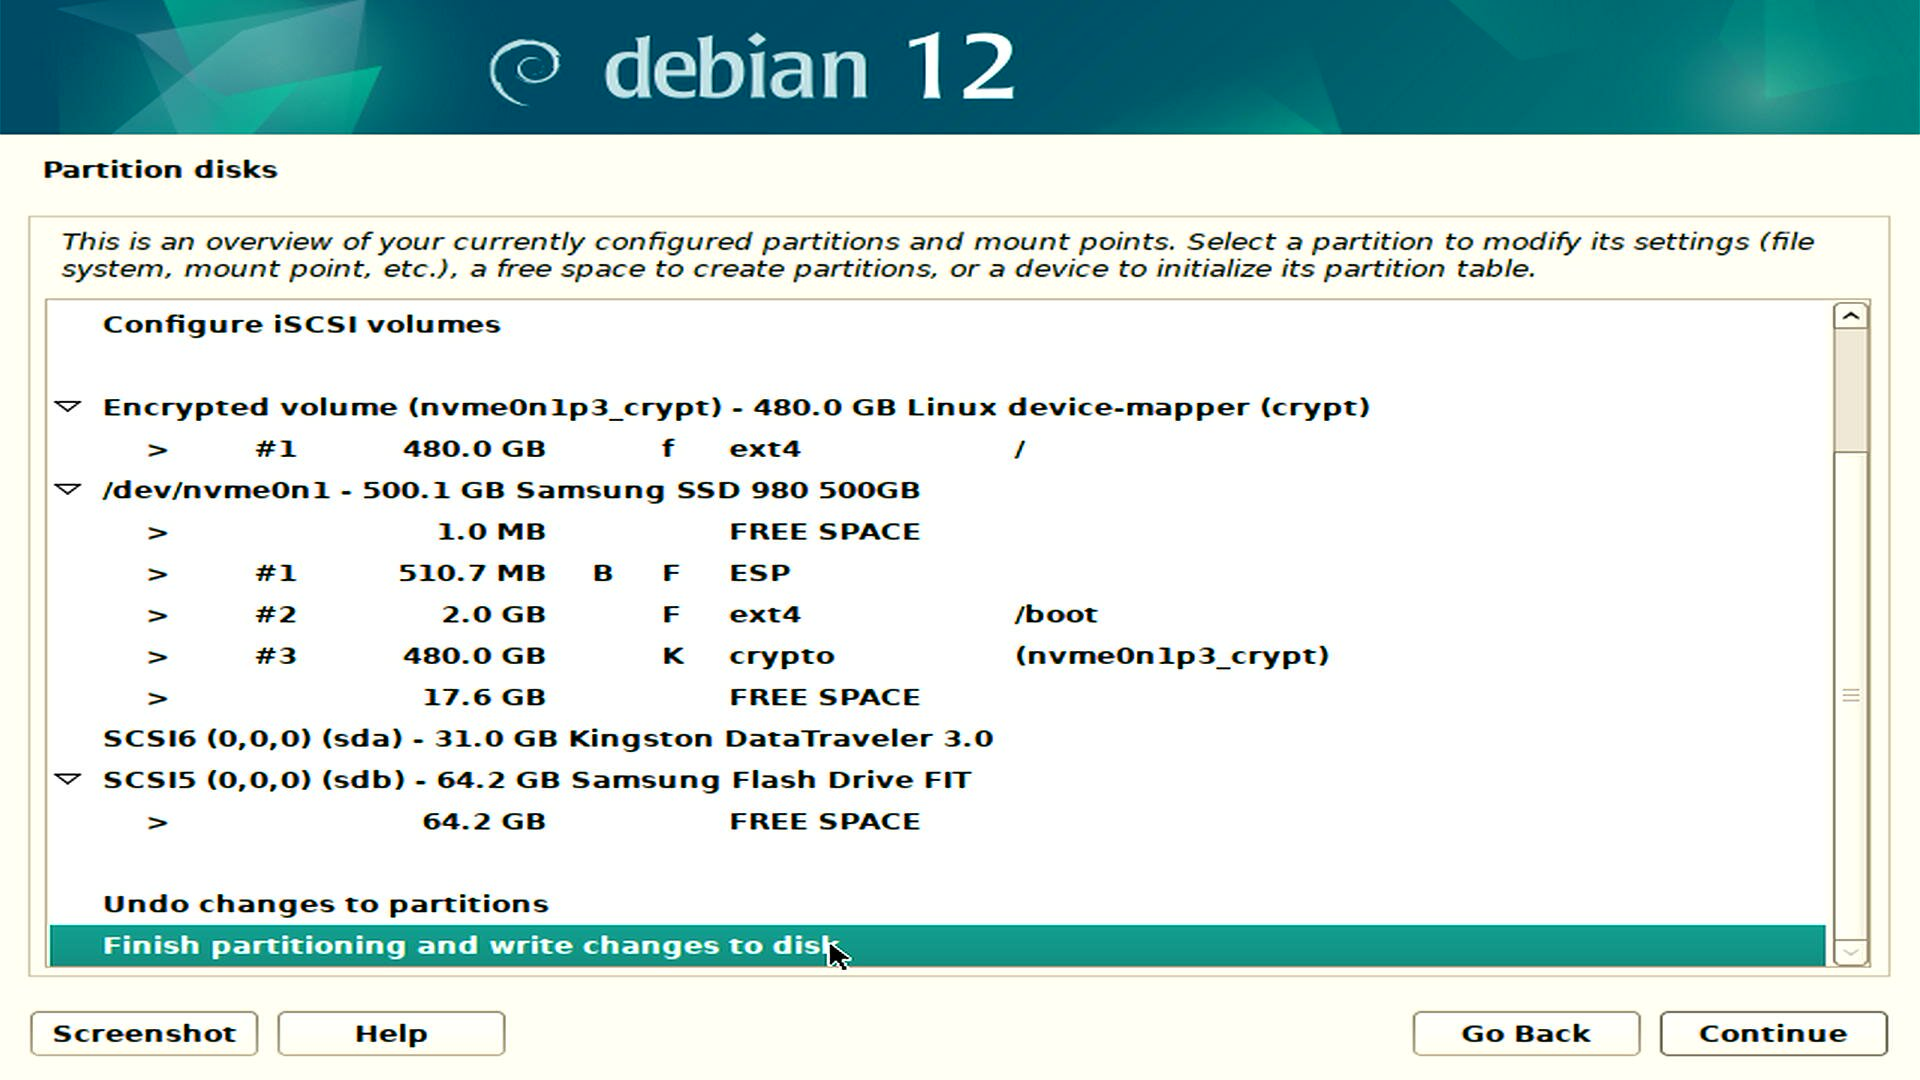
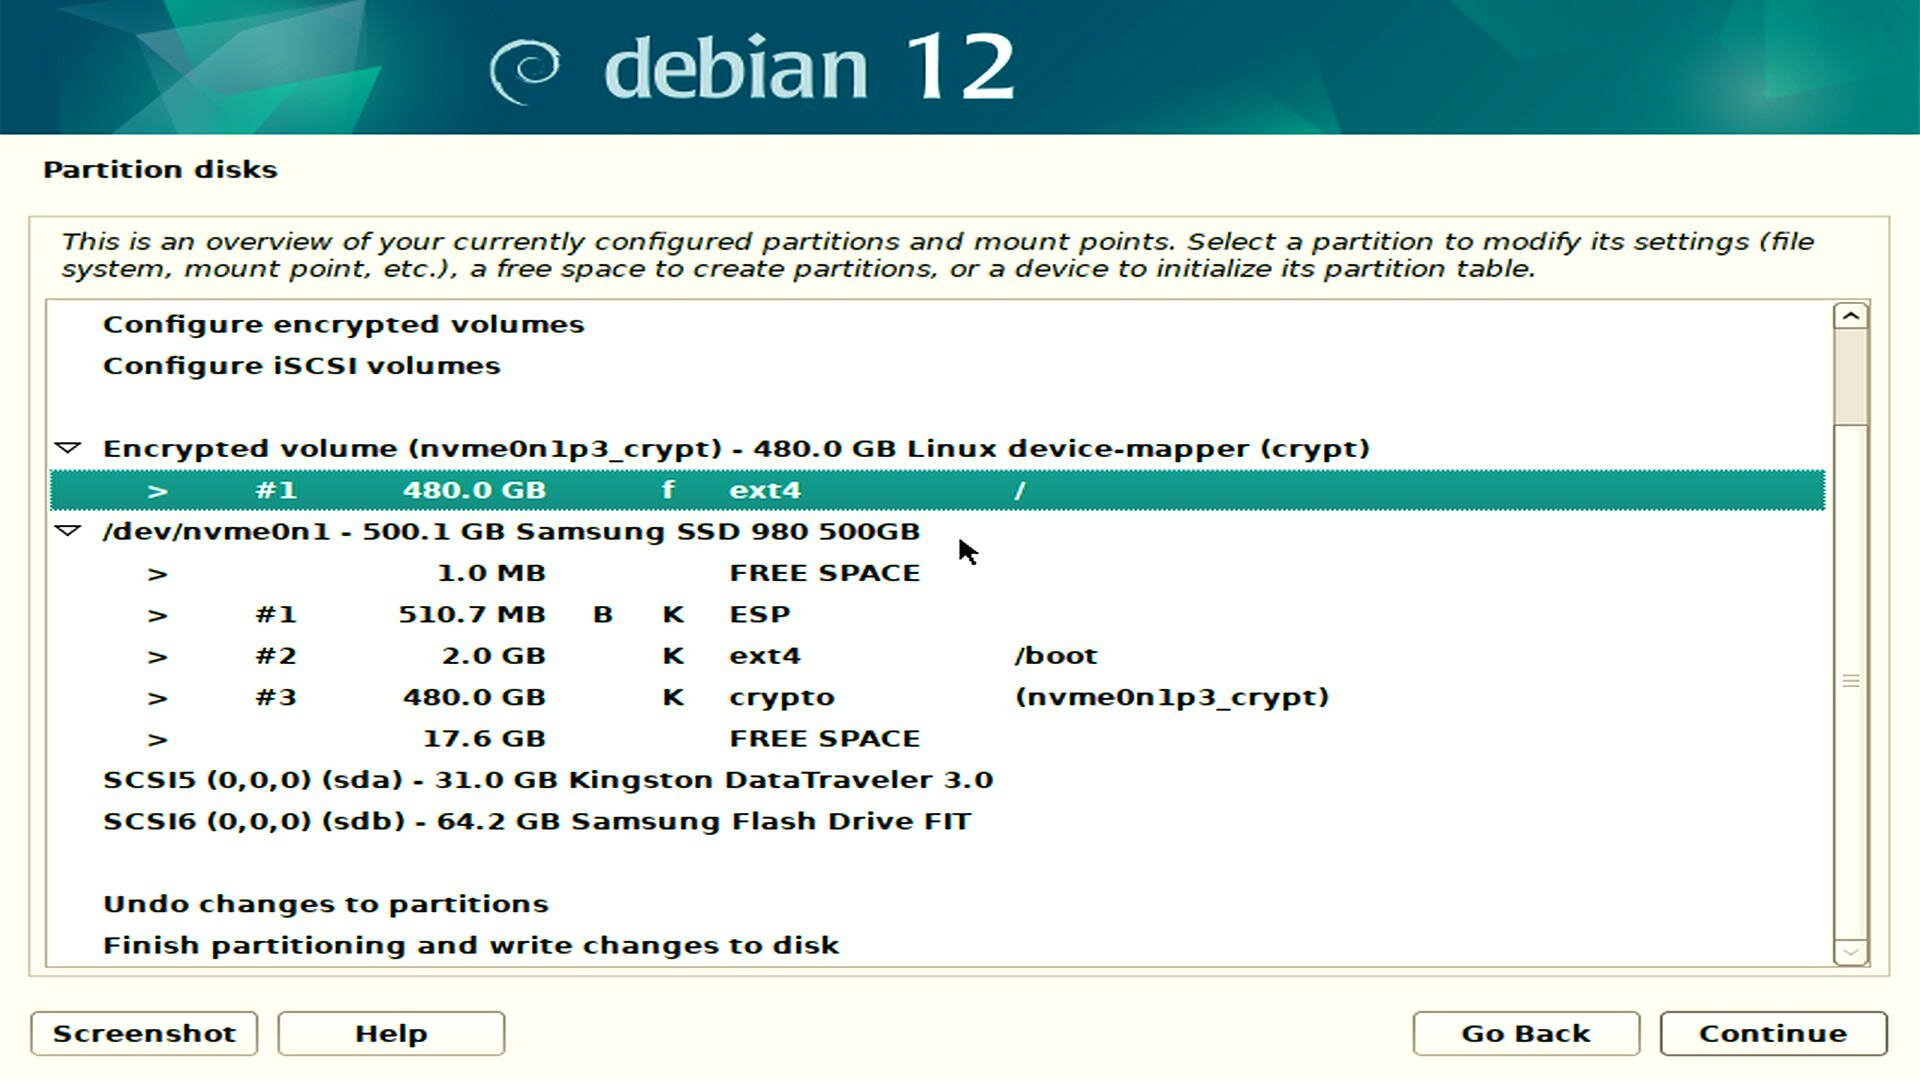
Update article: Proxmox Part 1 - Encrypted Installation
- The whole article was reviewed and mostly rewritten.
- Verified to work with latest Debian 12.11 and Proxmox 8.4.1

Changed region(s): [[0.0, 0.275, 0.9688, 0.7944], [0.0, 0.8556, 0.9688, 0.9167], [0.5312, 0.55, 0.6875, 0.6722]]

diff --git a/_posts/nas/2024-08-24-proxmox-part-1-encrypted-installation.md b/_posts/nas/2024-08-24-proxmox-part-1-encrypted-installation.md
@@ -10,14 +10,20 @@ tags: [NAS,Terramaster,F4-424 Pro, Proxmox, SSH, LUKS]
 image: /assets/img/posts/pve-part1-installation/pve-part1-installation-post.jpg
 ---
 
+> This post has been rewritten in Jun 2025
+{: .prompt-info }
+
 ## Motivation
-This article will closely follow the official Proxmox [tutorial](https://pve.proxmox.com/wiki/Install_Proxmox_VE_on_Debian_12_Bookworm) on installing Proxmox on a fresh Debian 12 installation.
+
+If not already familiar with the goals, get familiar with the article Proxmox Part 0 - Secure Architecture
+
+This article will mostly follow the official Proxmox [tutorial](https://pve.proxmox.com/wiki/Install_Proxmox_VE_on_Debian_12_Bookworm) on installing Proxmox on a fresh Debian 12.11 installation. Main difference being Debian configured with encryption.
 
 ## Installing Debian
 ![Debian Install](/assets/img/posts/pve-part1-installation/pve-part1-installation01.jpg){: width="1920" height="1080" .center}
-1. Download the Debian installer ISO image and flash it onto a USB thumb drive.
+1. [Download](https://www.debian.org/distrib/netinst) the Debian amd64 small installation image and flash it onto a USB thumb drive.
 2. Boot your system from the USB drive and begin the installation process.
-3. When the "Installation Menu" appears, interrupt the process.
+3. When the "Installation Menu" appears, **interrupt the process!**
 
 
 ![Debian installer](/assets/img/posts/pve-part1-installation/pve-part1-installation02.jpg){: width="1920" height="1080" .center}
@@ -38,11 +44,23 @@ Proceed with the installation until you reach the **Partition Disks** section. S
 
 Delete all existing partitions on the disk intended for Proxmox installation. If you encounter errors related to existing LVM configurations, navigate to **Configure the Logical Volume Manager** and delete the volumes and groups.
 
+The boot partition will not be encrypted, otherwise UEFI would not be able to execute the boot process. This is okay since we are not going to store any sensitive data on the partition.
+
 Create the following partitions:
 
-- EFI Partition: 512 MB, **Use as:** EFI System Partition.
-- Boot Partition: 2 GB, **Use as:** ext4, **Mount point:** `/boot` and **Mount options:** `noatime`
-- Encrypted Volume: 480 GB, **Use as:** physical volume for encryption, **Erase data:** no (this disk has never had anything sensitive on it)
+- EFI Partition: 512 MB
+    - **Use as:** EFI System Partition.
+- Boot Partition: 2 GB
+    - **Use as:** ext4
+    - **Format the partition:** yes,format it
+    - **Mount point:** `/boot`
+    - **Mount options:** `noatime`
+- Encrypted Volume: 480 GB
+    - **Use as:** physical volume for encryption
+    - **Erase data:** no (this disk has never had anything sensitive on it)
+
+Use the screenshot above as an example before configuring the encryption
+
 
 ![Debian installer encryption](/assets/img/posts/pve-part1-installation/pve-part1-installation05.jpg){: width="1920" height="1080" .center}
 
@@ -74,14 +92,19 @@ For Software selection choose `SSH server` and `standard system utilities`.
 
 Once installation is complete, reboot the system and remove installation media.
 
+### Getting error "cryptsetup: Waiting for encrypted source device"
+![cryptsetup: Waiting for encrypted source device error](/assets/img/posts/pve-part1-installation/pve-part1-cryptsetup_error.jpg)
+This error appears when reinstalling the system without formatting drives, the bootloader tries to run the configuration from previous installation. As a workaround, either enter to the `Advanced options for Debian GNU/Linux` from GRUB menu and choose other kernel or, alternatively reinstall the system and ensure EFI and boot partitions are formatted during installation.
+
 ## Configuring SSH for first connection
 
 It's more convenient to continue the installation from a remote machine, and SSH is the perfect tool for this. However, SSH employs a [TOFU](https://en.wikipedia.org/wiki/Trust_on_first_use) (Trust on First Use) authentication scheme, requiring us to verify the connection when connecting to an unknown endpoint for the first time. Furthermore, the default OpenSSH server configuration relies on password authentication which is vulnerable to man-in-the-middle attacks.
 
 While it's unlikely my network has any malicious actors waiting to exploit my devices, I try to prioritize security best practices whenever possible.
 
-Log in as root on the Debian machine we just installed:
+Following steps instructs on creating encrypted vault on an USB stick to store SSH-keys.
 
+Log in as root on the Debian machine:
 ```shell
 # Prepare the USB drive: (Skip steps 2 and 3 if you're not using the Debian installer USB)
 # 1. Identify the USB drive with two partitions (/dev/sdb in my case)
@@ -106,14 +129,14 @@ mount /dev/sdb3 /mnt/usb
 # 5. Navigate to the mounted drive
 cd /mnt/usb
 
-# 6. Create an empty file for encrypted container (512 MB)
-dd if=/dev/urandom of=filevault.img bs=1M count=512
+# 6. Create an empty file for encrypted container (50 MB)
+dd if=/dev/urandom of=pvekey.img bs=1M count=50
 
 # 7. Create LUKS volume within the empty file
-cryptsetup --verify-passphrase luksFormat filevault.img
+cryptsetup --verify-passphrase luksFormat pvekey.img
 
 # 8. Open the LUKS volume and confirm it is visible in the system
-cryptsetup open --type luks filevault.img keyvault
+cryptsetup open --type luks pvekey.img keyvault
 ls /dev/mapper
 
 # 9. Create filesystem labeled as keyvault
@@ -128,16 +151,16 @@ cd /media/keyvault
 ssh-keygen -l -f /etc/ssh/ssh_host_ed25519_key >> host_fingerprint.txt
 
 # 12. Generate SSH keys (Use a strong password)
-ssh-keygen -t ed25519 -f vault_key
+ssh-keygen -t ed25519 -f pve_key
 
 # 13. Create the SSH configuration folder for the non-admin user
-mkdir /home/tanezky/.ssh
+mkdir /home/netzky/.ssh
 
-# 14. Copy the public key to the user's authorized_keys file
-cat vault_key.pub >> /home/tanezky/.ssh/authorized_keys
+# 14. Add the public key to the user's authorized_keys file
+cat pve_key.pub >> /home/netzky/.ssh/authorized_keys
 
 # 15. Give the user permissions to .ssh folder and files
-chown -R tanezky:tanezky /home/tanezky/.ssh/
+chown -R netzky:netzky /home/netzky/.ssh/
 
 # 16. Finally, exit the folder and unmount drive.
 cd /
@@ -147,9 +170,9 @@ umount /mnt/usb
 ```
 
 ### First SSH Connection
-![First SSH Connection](/assets/img/posts/pve-part1-installation/pve-part1-installation08.jpg){: width="1920" height="1080" .center}
+![First SSH Connection](/assets/img/posts/pve-part1-installation/pve-part1-installation08.jpg){: width="821" height="582" .center}
 
-Connect the USB drive to your PC and move `filevault.img` on your hard drive.
+Connect the USB drive to your PC and move `pvekey.img` on your hard drive.
 
 On my Gnome Desktop I can mount the filevault via double clicking the file.
 After entering the password it is mounted.
@@ -158,7 +181,7 @@ How-to in shell:
 
 ```shell
 # 1. Open the LUKS container
-sudo cryptsetup open --type luks filevault.img keyvault
+sudo cryptsetup open --type luks pvekey.img keyvault
 
 # 2. If not existing, create location for the mount point
 sudo mkdir -p /media/keyvault
@@ -173,30 +196,30 @@ Finally, connect to the device with SSH
 # 1. Navigate to the mounted location or open a new terminal in that folder
 cd /media/keyvault
 
-# 2. List files, there should be vault_key and vault-fingerprint.txt
+# 2. List files, there should be pve_key and vault-fingerprint.txt
 ls
-lost+found  vault-fingerprint.txt  vault_key  vault_key.pub
+lost+found  vault-fingerprint.txt  pve_key  pve_key.pub
 
 
 # 3. Print contents of vault-fingerprint.txt
 cat vault-fingerprint.txt
-256 SHA256:h+YtATVdtGddY5c3hCM9Negu+rS/pKrpliXI/Lg7s2U root@aurum-vault (ED25519)
+256 SHA256:wXkuNcQt/8W7N2ivAwJctaYq5mVncEmIrj574mfyYto root@pve-vault (ED25519)
 
-# 4. Create SSH connection using vault_key
-ssh -i vault_key tanezky@10.42.42.150
+# 4. Create SSH connection using pve_key
+ssh -i pve_key netzky@10.42.42.150
 The authenticity of host '10.42.42.150 (10.42.42.150)' can't be established.'
-ED25519 key fingerprint is SHA256:h+YtATVdtGddY5c3hCM9Negu+rS/pKrpliXI/Lg7s2U.
+ED25519 key fingerprint is SHA256:wXkuNcQt/8W7N2ivAwJctaYq5mVncEmIrj574mfyYto.
 This key is not known by any other names.
 
 # 5. Copy paste the SHA256 fingerprint from step 3
-Are you sure you want to continue connecting (yes/no/[fingerprint])? SHA256:h+YtATVdtGddY5c3hCM9Negu+rS/pKrpliXI/Lg7s2U
+Are you sure you want to continue connecting (yes/no/[fingerprint])? SHA256:wXkuNcQt/8W7N2ivAwJctaYq5mVncEmIrj574mfyYto
 Warning: Permanently added '10.42.42.150' (ED25519) to the list of known hosts.
 
-# 6. Enter password for the vault_key
-Enter passphrase for key 'vault_key': 
+# 6. Enter password for the pve_key
+Enter passphrase for key 'pve_key': 
 
 # 7. Login complete
-Linux aurum-vault 6.1.0-23-amd64 #1 SMP PREEMPT_DYNAMIC Debian 6.1.99-1 (2024-07-15) x86_64
+Linux pve-vault 6.1.0-37-amd64 #1 SMP PREEMPT_DYNAMIC Debian 6.1.99-1 (2024-07-15) x86_64
 
 The programs included with the Debian GNU/Linux system are free software;
 ...
@@ -205,23 +228,39 @@ The programs included with the Debian GNU/Linux system are free software;
 Typing the full ssh command with the key file every time can get tedious. To streamline this, it's a good idea to create a configuration file that simplifies future connections.
 
 ```shell
+# First, copy the private key in your .ssh folder
+cp pve_key /home/netzky/.ssh/
+
 # Edit the local SSH config file on your PC
 ~/.ssh/config
 
 # Add following content with your details
-Host    vault
+Host    pve-vault
         HostName 10.42.42.150
-        User tanezky
-        IdentityFile /media/keyvault/vault_key
+        User netzky
+        IdentityFile ~/.ssh/pve_key
         LogLevel INFO
         Compression yes
 
 # Making connection is now much more straightforward
-ssh vault
+ssh pve-vault
 ```
 
 ## Installing Proxmox
-Ensure `/etc/hosts` does not have `127.0.1.1` in it and the hostname is allocated with IP address
+
+### Preparation
+Before installing the Proxmox, it is good to list all currently installed packages. This can be used for comparison later to see what new packages was installed.
+```shell
+# Save list of installed packages
+dpkg --get-selections > packages_before_proxmox.txt
+# Save detailed list of installed packages
+apt list --installed > packages_before_proxmox_detailed.txt
+# Save list of manually installed packages
+apt-mark showmanual > manually_installed_before_proxmox.txt
+```
+
+
+Ensure `/etc/hosts` maps `127.0.1.1` only to localhost
 
 ```shell
 # Become root, enter root password which was given during debian installation
@@ -230,13 +269,20 @@ su -
 # Check /etc/hosts to be similar as below, edit if necessary
 cat /etc/hosts
 127.0.0.1	localhost
-10.42.42.150	aurum-vault.proxmox.com aurum-vault
+10.42.42.150	pve-vault.proxmox.com pve-vault
 
 # The following lines are desirable for IPv6 capable hosts
 ::1     localhost ip6-localhost ip6-loopback
 ff02::1 ip6-allnodes
 ff02::2 ip6-allrouters
 ```
+
+Verify `hostname --ip-address` returns the IP-address assigned during the Debian installation
+```shell
+root@pve-vault:~# hostname --ip-address 
+10.42.42.150
+```
+
 #### Repository
 Add the Proxmox VE repository to apt sources
 
@@ -267,8 +313,8 @@ After reboot install Proxmox VE packages
 ```shell
 apt install -y proxmox-ve postfix open-iscsi chrony
 ```
-![First SSH Connection](/assets/img/posts/pve-part1-installation/pve-part1-installation09.jpg){: width="1278" height="930" .center}
-_For Postfix Configuration I chose Local only since I don't have a mail server (yet)._
+![First SSH Connection](/assets/img/posts/pve-part1-installation/pve-part1-installation09.jpg){: width="1202" height="648" .center}
+_For Postfix Configuration I chose No configuration since I don't have a mail server (yet)._
 
 
 #### Cleanup
@@ -286,6 +332,18 @@ rm /etc/apt/sources.list.d/pve-enterprise.list
 ```
 
 #### Finalising Setup
+
+Before adding network bridge, let's create new lists of installed packages
+```shell
+# Save list of installed packages
+dpkg --get-selections > packages_after_proxmox.txt
+# Save detailed list of installed packages
+apt list --installed > packages_after_proxmox_detailed.txt
+# Save list of manually installed packages
+apt-mark showmanual > manually_installed_after_proxmox.txt
+# Comparison can be done with
+diff -u file_before file_after
+```
 
 Last thing on the list is to add network bridge, for time being I'm going to use default configuration.
 
@@ -349,4 +407,5 @@ Go to admin web-interface <https://10.42.42.150:8006>
 Use your `root` credentials and **Realm:** Linux PAM standard authentication
 
 #### Page updates
-29.12.2024 - Update Postfix Configuration, add reboot instruction to cleanup.
+- 29.12.2024 - Update Postfix Configuration, add reboot instruction to cleanup.
+- 23.06.2025 - Whole post was reviewed and updated
